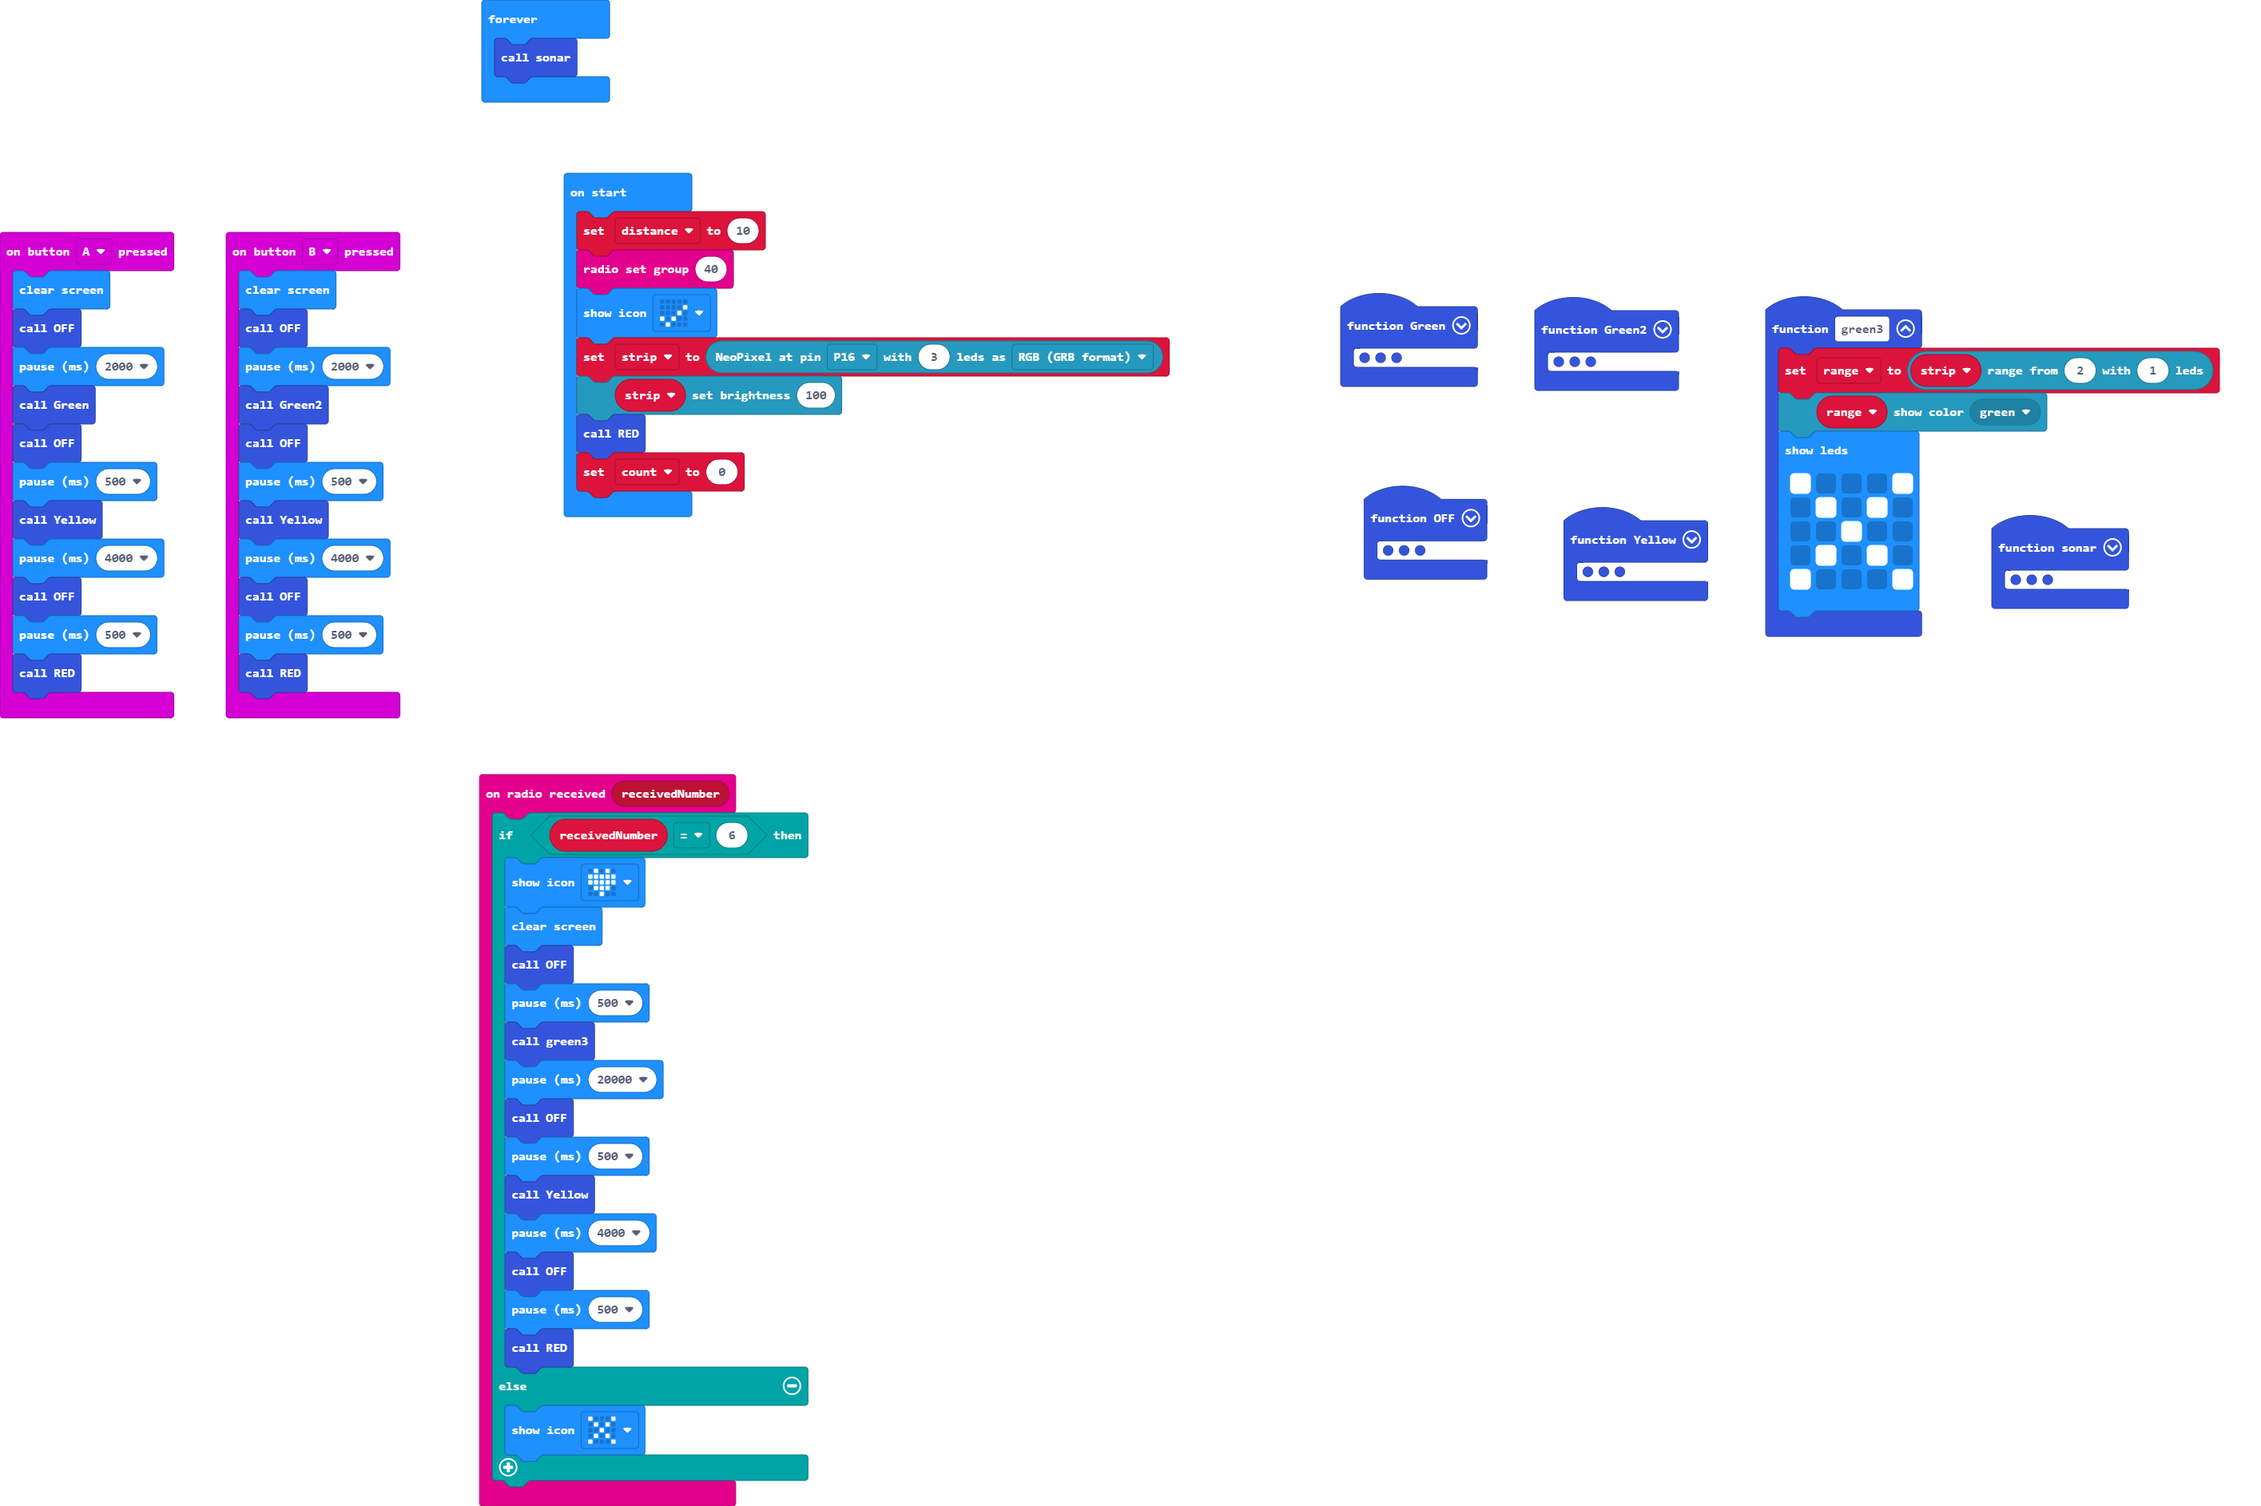
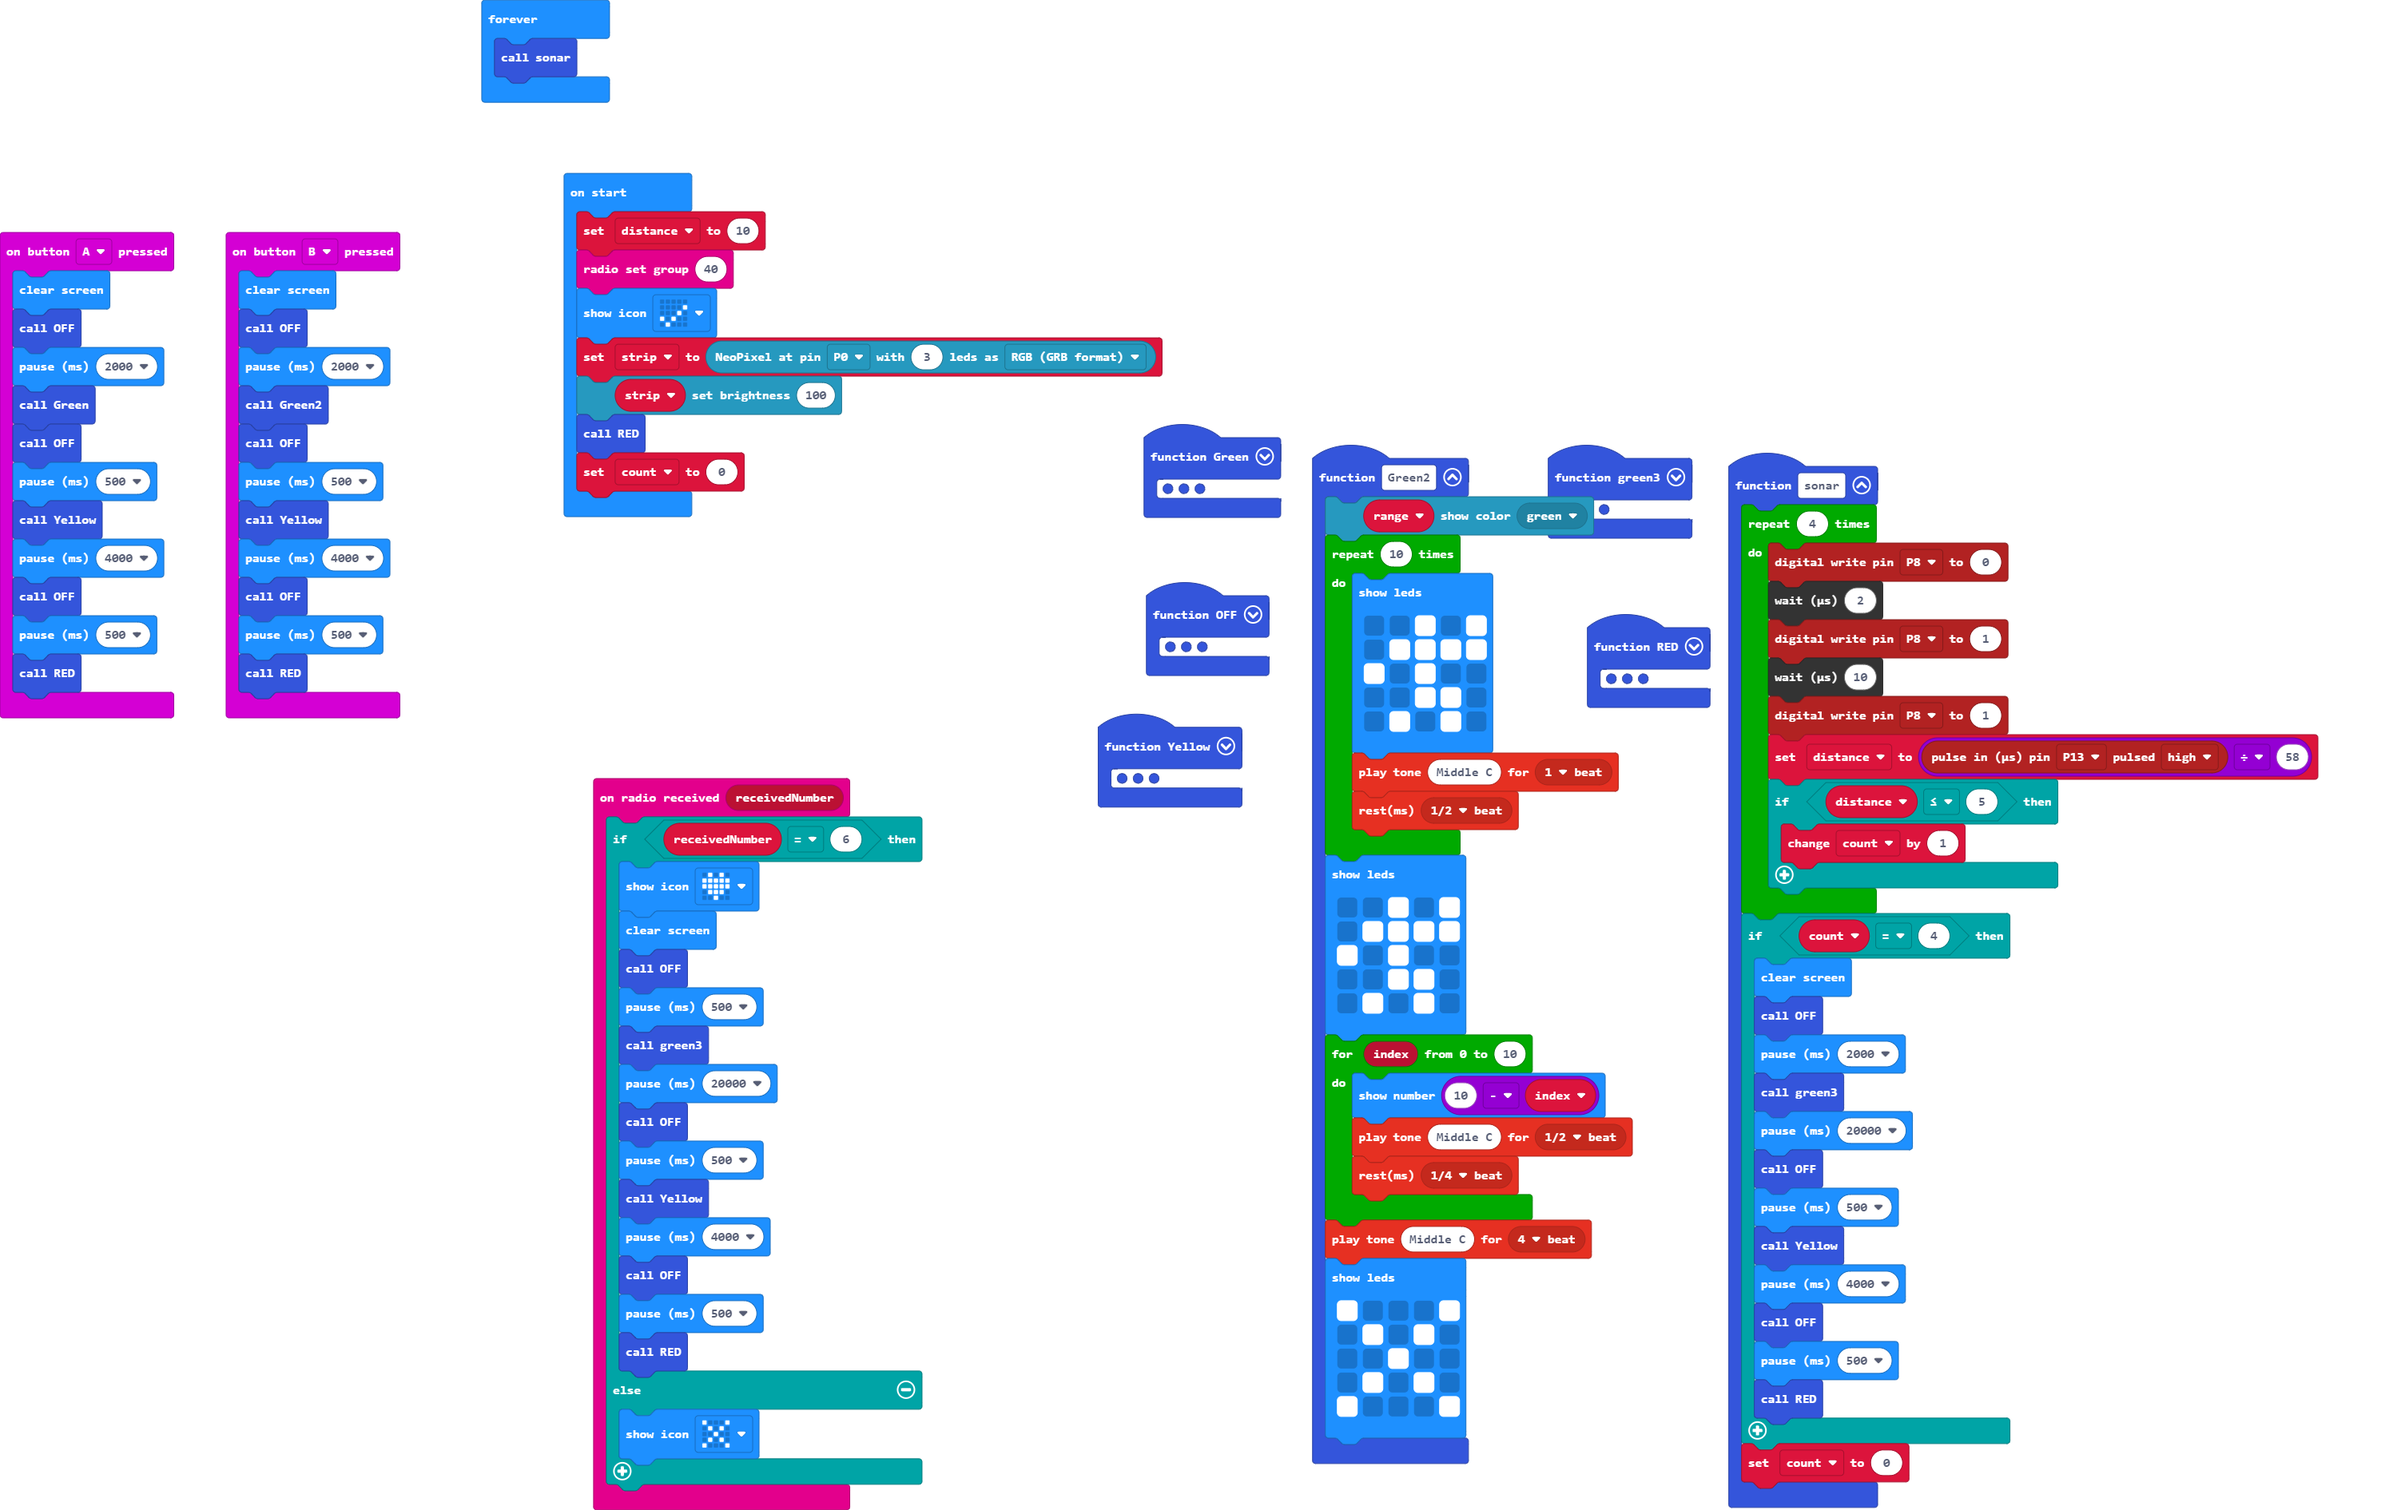
Update main.blocks, main.ts

diff --git a/main.ts b/main.ts
@@ -176,7 +176,7 @@ let distance = 0
 distance = 10
 radio.setGroup(40)
 basic.showIcon(IconNames.Yes)
-strip = neopixel.create(DigitalPin.P16, 3, NeoPixelMode.RGB)
+strip = neopixel.create(DigitalPin.P0, 3, NeoPixelMode.RGB)
 strip.setBrightness(100)
 RED()
 count = 0
